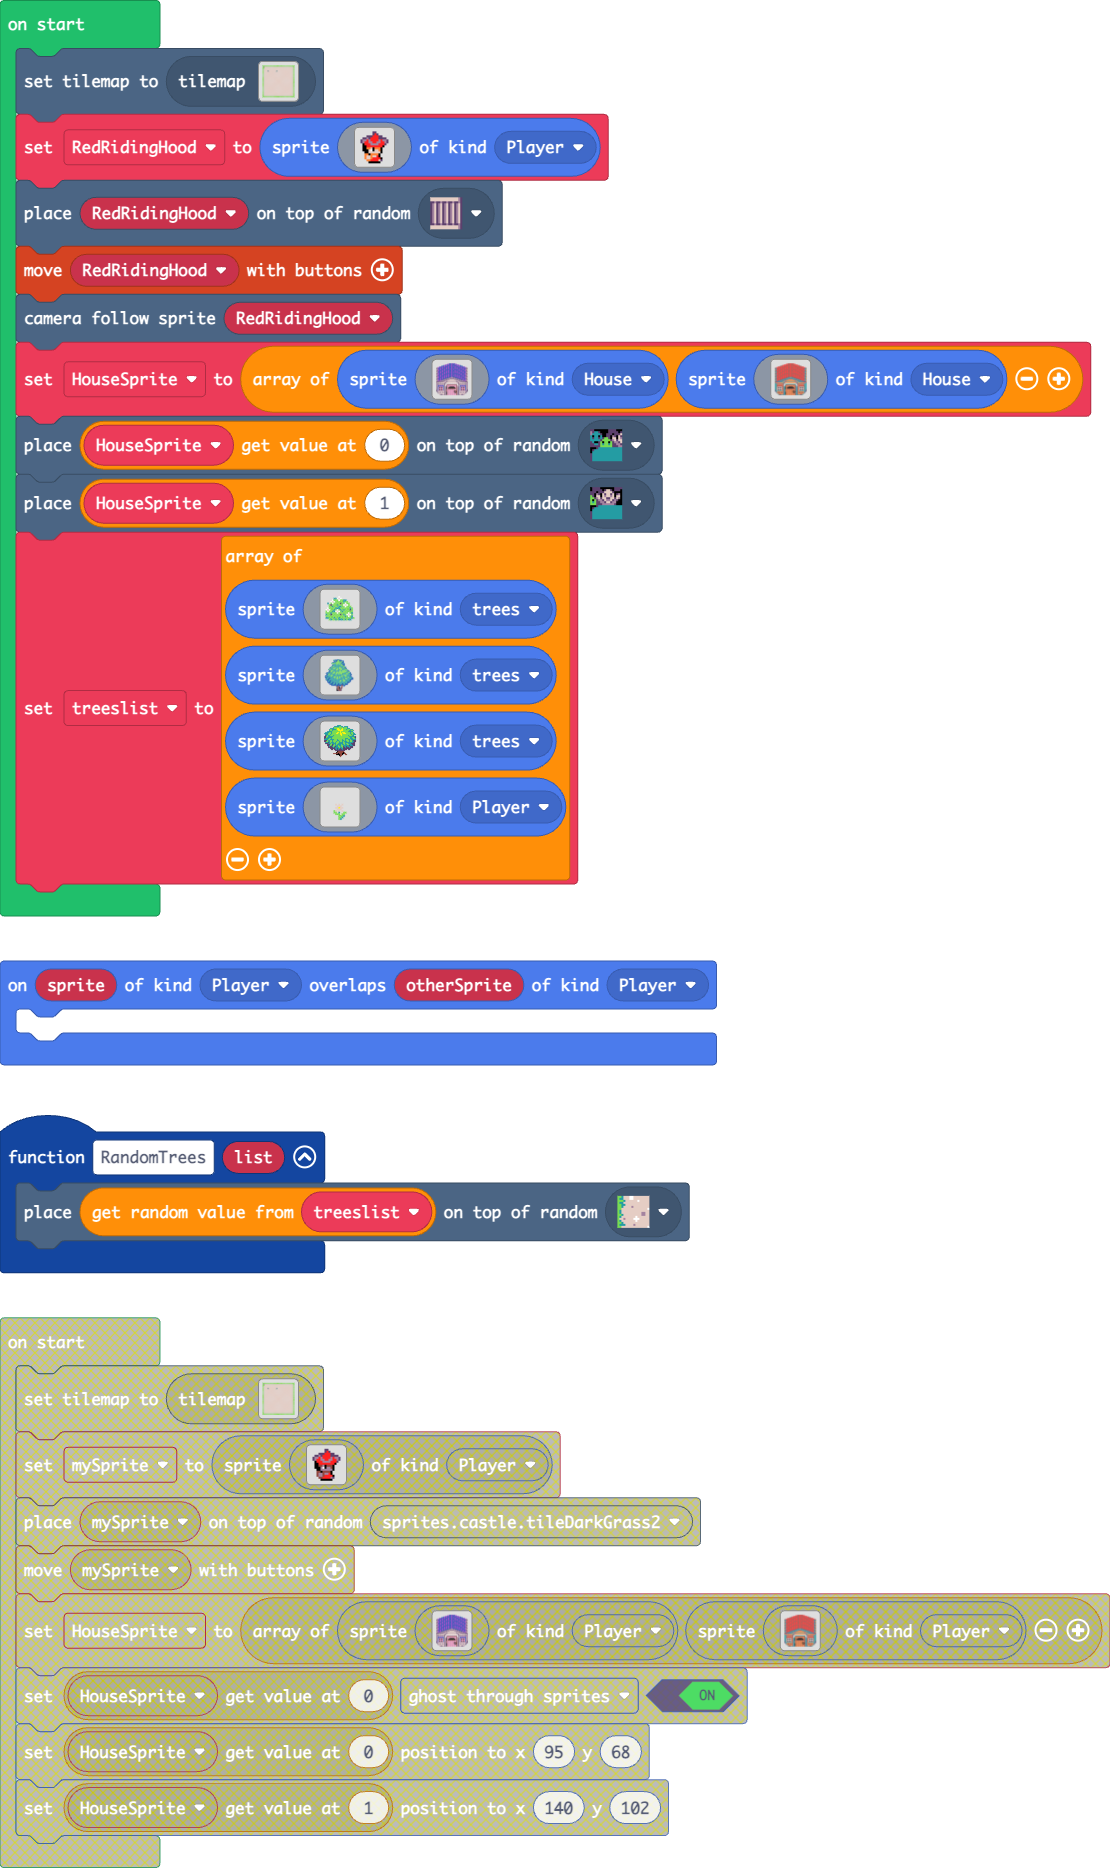
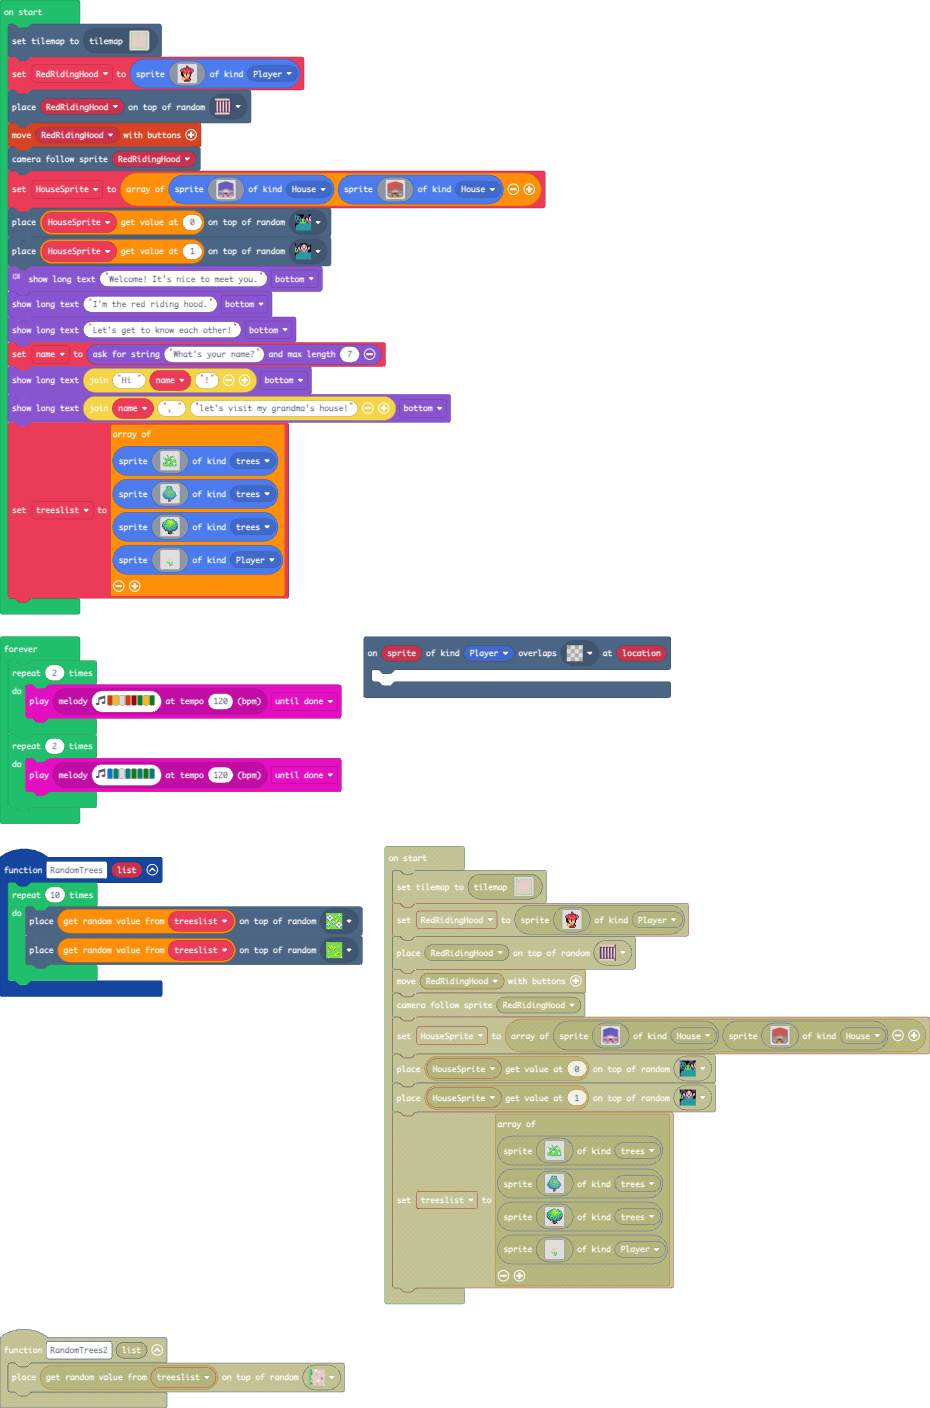
Update main.blocks, main.ts, tilemap.g.jres, tilemap.g.ts

diff --git a/tilemap.g.ts b/tilemap.g.ts
@@ -9,8 +9,27 @@ namespace myTiles {
 
     helpers._registerFactory("tilemap", function(name: string) {
         switch(helpers.stringTrim(name)) {
+            case "level2":
+            case "level2":return tiles.createTilemap(hex`1000100000000000000000000000000000000000000000000000000000000000000000000000000000000000000000000000000000000000000000000000000000000000000000000000000000000000000000000000000000000000000000000000000000000000000000000000000000000000000000000000000000000000000000000000000000000000000000000000000000000000000000000000000000000000000000000000000000000000000000000000000000000000000000000000000000000000000000000000000000000000000000000000000000000000000000000000000000000000000000000000000000000000000000000000000000000000`, img`
+. . . . . . . . . . . . . . . . 
+. . . . . . . . . . . . . . . . 
+. . . . . . . . . . . . . . . . 
+. . . . . . . . . . . . . . . . 
+. . . . . . . . . . . . . . . . 
+. . . . . . . . . . . . . . . . 
+. . . . . . . . . . . . . . . . 
+. . . . . . . . . . . . . . . . 
+. . . . . . . . . . . . . . . . 
+. . . . . . . . . . . . . . . . 
+. . . . . . . . . . . . . . . . 
+. . . . . . . . . . . . . . . . 
+. . . . . . . . . . . . . . . . 
+. . . . . . . . . . . . . . . . 
+. . . . . . . . . . . . . . . . 
+. . . . . . . . . . . . . . . . 
+`, [myTiles.transparency16], TileScale.Sixteen);
             case "level1":
[2 lines of base64/hex data omitted]
 222222222222222222222222222222
 2............................2
 2............................2
@@ -41,7 +60,7 @@ namespace myTiles {
 2............................2
 2............................2
 222222222222222222222222222222
-`, [myTiles.transparency16,sprites.castle.tileGrass2,sprites.castle.tileGrass1,sprites.castle.tileGrass3,sprites.castle.tilePath4,sprites.castle.tilePath2,sprites.castle.tilePath7,sprites.castle.tilePath5,sprites.castle.tilePath8,sprites.castle.tilePath6,sprites.castle.tilePath3,sprites.builtin.crowd0,sprites.builtin.crowd4,sprites.dungeon.stairWest,sprites.skillmap.islandTile4], TileScale.Sixteen);
+`, [myTiles.transparency16,sprites.castle.tileGrass2,sprites.castle.tileGrass1,sprites.castle.tileGrass3,sprites.castle.tilePath4,sprites.castle.tilePath2,sprites.castle.tilePath7,sprites.castle.tilePath5,sprites.castle.tilePath8,sprites.castle.tilePath6,sprites.castle.tilePath3,sprites.builtin.crowd0,sprites.builtin.crowd4,sprites.dungeon.stairWest], TileScale.Sixteen);
         }
         return null;
     })

diff --git a/main.ts b/main.ts
@@ -5,8 +5,14 @@ namespace SpriteKind {
 sprites.onOverlap(SpriteKind.Player, SpriteKind.Player, function (sprite, otherSprite) {
 	
 })
+scene.onOverlapTile(SpriteKind.Player, assets.tile`transparency16`, function (sprite, location) {
+	
+})
 function RandomTrees (list: any[]) {
-    tiles.placeOnRandomTile(treeslist._pickRandom(), sprites.castle.tilePath4)
+    for (let index = 0; index < 10; index++) {
+        tiles.placeOnRandomTile(treeslist._pickRandom(), sprites.castle.tileGrass2)
+        tiles.placeOnRandomTile(treeslist._pickRandom(), sprites.castle.tileGrass3)
+    }
 }
 let treeslist: Sprite[] = []
 tiles.setCurrentTilemap(tilemap`level1`)
@@ -132,6 +138,13 @@ let HouseSprite = [sprites.create(img`
     `, SpriteKind.House)]
 tiles.placeOnRandomTile(HouseSprite[0], sprites.builtin.crowd0)
 tiles.placeOnRandomTile(HouseSprite[1], sprites.builtin.crowd4)
+// Introduction text to start the game
+game.showLongText("Welcome! It's nice to meet you.", DialogLayout.Bottom)
+game.showLongText("I'm the red riding hood.", DialogLayout.Bottom)
+game.showLongText("Let's get to know each other!", DialogLayout.Bottom)
+let name = game.askForString("What's your name?", 7)
+game.showLongText("Hi " + name + "!", DialogLayout.Bottom)
+game.showLongText("" + name + ", " + "let's visit my grandma's house!", DialogLayout.Bottom)
 treeslist = [
 sprites.create(img`
     ....................
@@ -255,3 +268,11 @@ sprites.create(img`
     ....................
     `, SpriteKind.Player)
 ]
+forever(function () {
+    for (let index = 0; index < 2; index++) {
+        music.play(music.stringPlayable("B A - B C5 G A G ", 120), music.PlaybackMode.UntilDone)
+    }
+    for (let index = 0; index < 2; index++) {
+        music.play(music.stringPlayable("E F - F G F G F ", 120), music.PlaybackMode.UntilDone)
+    }
+})
